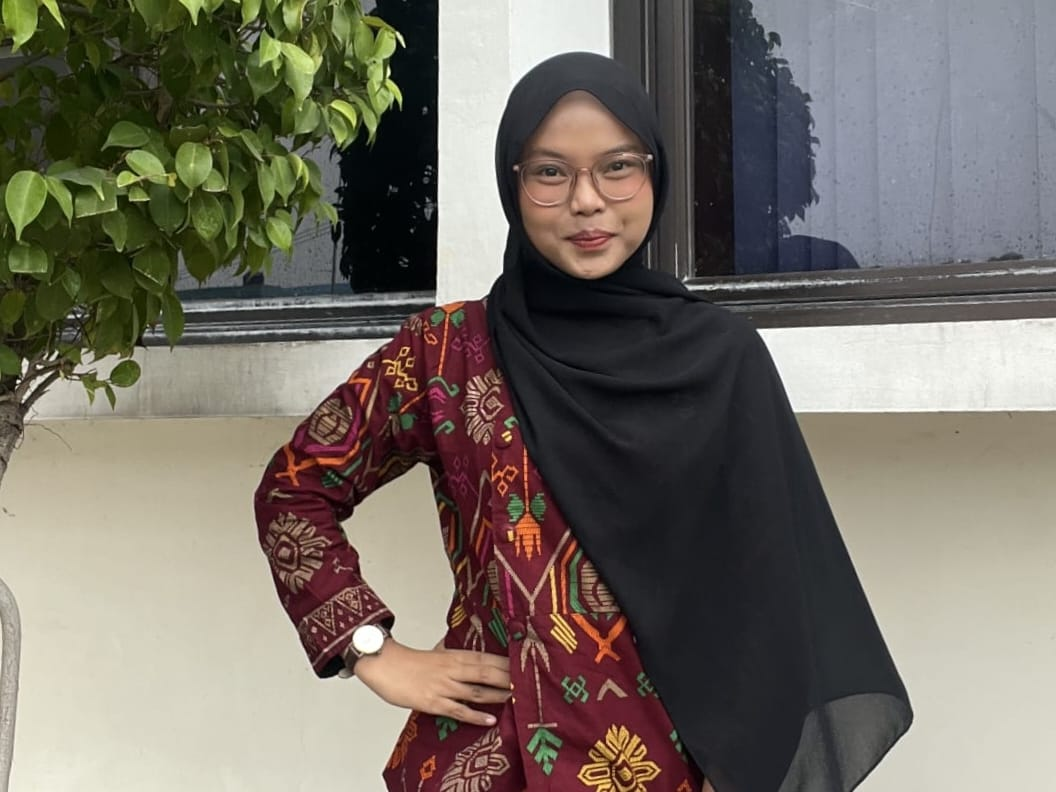
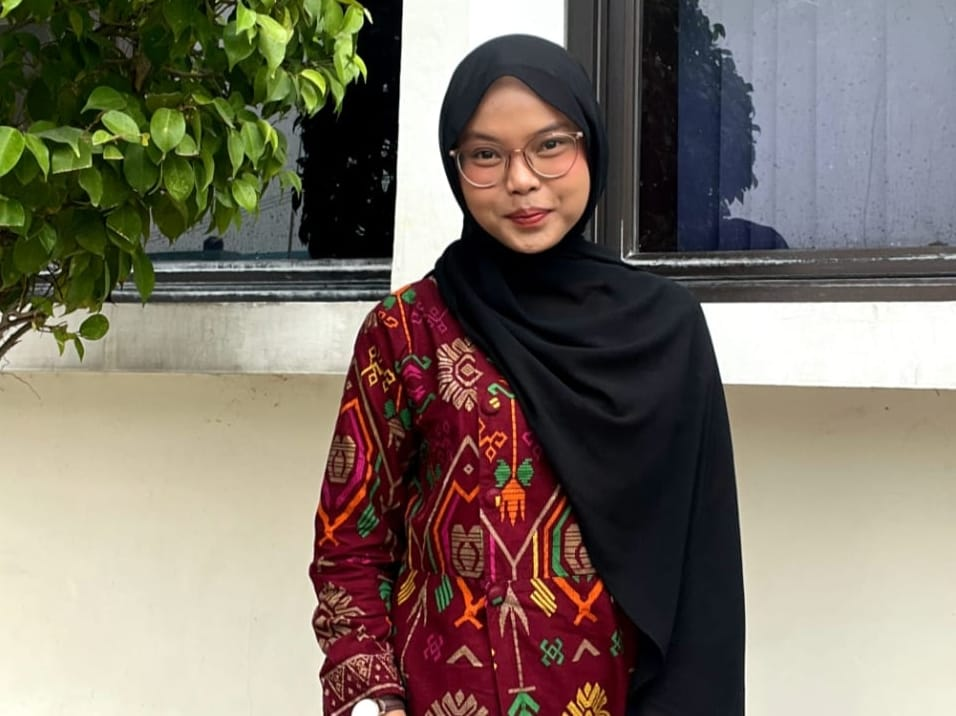
Add files via upload

diff --git a/index.html b/index.html
@@ -70,10 +70,6 @@
                         <a href="pages/divisi.html" class="btn btn-primary">
                             <i class="ri-layout-grid-line"></i> Lihat Divisi
                         </a>
-                        <a href="pages/aspirasi.html" class="btn btn-outline">
-                            <i class="ri-chat-voice-line"></i> Kirim Aspirasi
-                        </a>
-                    </div>
                 </div>
 
                 <div class="hero-image desktop-hero-image">
@@ -117,7 +113,7 @@
                 <div class="section-title">
                     <span class="section-subtitle">Tentang Kami</span>
                     <h2>Mengenal BEM Fakultas Ilmu Komputer</h2>
-                    <p>Wadah aspirasi, inovasi, dan pergerakan kemahasiswaan Fakultas Ilmu Komputer Universitas Buana Perjuangan Karawang.</p>
+                    <p>Ruang kolaborasi, inovasi, dan pergerakan mahasiswa Fakultas Ilmu Komputer Universitas Buana Perjuangan Karawang.</p>
                 </div>
 
                 <div class="about-grid">
@@ -132,7 +128,7 @@
                     <div class="about-content">
                         <h3 id="aboutTitle">Badan Eksekutif Mahasiswa Fakultas Ilmu Komputer</h3>
                         <p id="aboutDescription">
-                            Badan Eksekutif Mahasiswa Fakultas Ilmu Komputer merupakan organisasi kemahasiswaan yang menjadi wadah aspirasi, kolaborasi, pengembangan potensi, serta penggerak berbagai kegiatan akademik maupun non-akademik bagi seluruh mahasiswa Fakultas Ilmu Komputer.
+                            Badan Eksekutif Mahasiswa Fakultas Ilmu Komputer merupakan organisasi kemahasiswaan yang berperan dalam membangun kolaborasi, mengembangkan potensi mahasiswa, serta menggerakkan berbagai kegiatan akademik dan non-akademik di lingkungan Fakultas Ilmu Komputer.
                         </p>
                         <div class="about-action">
                             <a href="pages/tentang.html" class="btn btn-primary">
@@ -263,28 +259,6 @@
                 </div>
             </div>
         </section>
-
-        <!-- ================= CTA ================= -->
-        <section class="cta section" id="cta">
-            <div class="container">
-                <div class="cta-box">
-                    <span class="section-subtitle">Aspirasi Mahasiswa</span>
-                    <h2>Suara Mahasiswa, Langkah Perubahan.</h2>
-                    <p>
-                        Kritik, saran, maupun ide yang membangun sangat berarti bagi kemajuan Fakultas Ilmu Komputer. Mari bersama menciptakan lingkungan akademik yang lebih aktif, inklusif, dan berprestasi.
-                    </p>
-                    <div class="cta-buttons">
-                        <a href="pages/aspirasi.html" class="btn btn-primary">
-                            <i class="ri-chat-3-line"></i> Kirim Aspirasi
-                        </a>
-                        <a href="pages/kontak.html" class="btn btn-outline">
-                            <i class="ri-customer-service-2-line"></i> Hubungi Kami
-                        </a>
-                    </div>
-                </div>
-            </div>
-        </section>
-    </main>
 
     <!-- Footer -->
     <footer id="footer"></footer>

diff --git a/css/style.css b/css/style.css
@@ -2415,108 +2415,7 @@ main {
 }
 
 /* =====================================================
-   15. ASPIRASI PAGE
-===================================================== */
-
-.aspiration-grid {
-    display: flex;
-    justify-content: center;
-}
-
-.aspiration-card {
-    background: var(--surface);
-    border: 1px solid var(--border);
-    border-radius: var(--radius-xl);
-    padding: 50px 40px;
-    max-width: 720px;
-    width: 100%;
-    text-align: center;
-    box-shadow: var(--shadow-md);
-    position: relative;
-    overflow: hidden;
-}
-
-.aspiration-card::before {
-    content: "";
-    position: absolute;
-    top: 0;
-    left: 0;
-    width: 100%;
-    height: 5px;
-    background: linear-gradient(90deg, var(--primary), var(--secondary));
-}
-
-.aspiration-icon {
-    width: 72px;
-    height: 72px;
-    border-radius: var(--radius-full);
-    background: var(--primary-subtle);
-    color: var(--primary);
-    display: inline-flex;
-    align-items: center;
-    justify-content: center;
-    font-size: 2rem;
-    margin-bottom: 22px;
-}
-
-.aspiration-card h2 {
-    font-size: 1.8rem;
-    margin-bottom: 14px;
-}
-
-.aspiration-card p {
-    font-size: 1rem;
-    color: var(--text-light);
-    line-height: 1.8;
-    margin-bottom: 30px;
-}
-
-.aspiration-button-group {
-    display: flex;
-    justify-content: center;
-    margin-bottom: 30px;
-}
-
-.contact-note {
-    background: var(--background);
-    border-radius: var(--radius-md);
-    padding: 16px 20px;
-    display: flex;
-    align-items: center;
-    justify-content: center;
-    gap: 12px;
-    text-align: left;
-}
-
-.contact-note i {
-    font-size: 1.4rem;
-    color: var(--primary);
-}
-
-.contact-note span {
-    font-size: 0.85rem;
-    color: var(--text-light);
-    display: block;
-}
-
-.contact-note strong {
-    font-size: 0.9rem;
-    color: var(--dark);
-}
-
-.step-badge {
-    display: inline-block;
-    padding: 4px 12px;
-    border-radius: var(--radius-full);
-    background: var(--primary-subtle);
-    color: var(--primary);
-    font-weight: 700;
-    font-size: 0.78rem;
-    margin-bottom: 12px;
-}
-
-/* =====================================================
-   16. KONTAK & FAQ & MAPS
+   15. KONTAK & FAQ & MAPS
 ===================================================== */
 
 .contact-grid {
@@ -2618,7 +2517,7 @@ main {
 }
 
 /* =====================================================
-   17. CTA & FOOTER & BACK TO TOP & 404
+   16. CTA & FOOTER & BACK TO TOP & 404
 ===================================================== */
 
 .cta {

diff --git a/pages/kontak.html b/pages/kontak.html
@@ -57,9 +57,6 @@
                             <a href="#contactSection" class="btn btn-primary">
                                 <i class="ri-contacts-line"></i> Informasi Kontak
                             </a>
-                            <a href="aspirasi.html" class="btn btn-outline">
-                                <i class="ri-chat-voice-line"></i> Kirim Aspirasi
-                            </a>
                         </div>
                     </div>
 
@@ -111,16 +108,6 @@
                             <h3>Instagram Resmi</h3>
                             <p id="contactInstagram">
                                 <a href="https://www.instagram.com/bemfikubpk" target="_blank" rel="noopener noreferrer">@bemfikubpk</a>
-                            </p>
-                        </div>
-                    </div>
-
-                    <div class="contact-card">
-                        <i class="ri-chat-3-line"></i>
-                        <div class="contact-card-body">
-                            <h3>Form Aspirasi Mahasiswa</h3>
-                            <p>
-                                <a href="aspirasi.html">Klik untuk Mengisi Formulir Aspirasi Online →</a>
                             </p>
                         </div>
                     </div>

diff --git a/pages/divisi.html b/pages/divisi.html
@@ -112,27 +112,6 @@
             </div>
         </section>
 
-        <!-- ================= CTA ================= -->
-        <section class="division-cta section">
-            <div class="container">
-                <div class="cta-box">
-                    <span class="section-subtitle">Aspirasi & Sinergi</span>
-                    <h2>Ingin Berkolaborasi dengan Departemen BEM?</h2>
-                    <p>
-                        Kami menyambut baik inisiatif kolaborasi kegiatan, usulan program kemahasiswaan, maupun pertanyaan seputar departemen terkait.
-                    </p>
-                    <div class="cta-buttons">
-                        <a href="kontak.html" class="btn btn-primary">
-                            <i class="ri-mail-line"></i> Hubungi Kami
-                        </a>
-                        <a href="proker.html" class="btn btn-outline">
-                            <i class="ri-flag-2-line"></i> Program Kerja
-                        </a>
-                    </div>
-                </div>
-            </div>
-        </section>
-    </main>
 
     <!-- Footer -->
     <footer id="footer"></footer>

diff --git a/pages/pengurus.html b/pages/pengurus.html
@@ -148,28 +148,6 @@
             </div>
         </section>
 
-        <!-- ================= CTA ================= -->
-        <section class="cta section">
-            <div class="container">
-                <div class="cta-box">
-                    <span class="section-subtitle">Aspirasi & Kolaborasi</span>
-                    <h2>Ingin Berkomunikasi Langsung dengan Pengurus?</h2>
-                    <p>
-                        Sampaikan pertanyaan, masukan, atau audiensi kepada pimpinan dan divisi BEM FIK melalui kanal resmi kami.
-                    </p>
-                    <div class="cta-buttons">
-                        <a href="kontak.html" class="btn btn-primary">
-                            <i class="ri-contacts-line"></i> Kontak Pengurus
-                        </a>
-                        <a href="aspirasi.html" class="btn btn-outline">
-                            <i class="ri-chat-voice-line"></i> Form Aspirasi
-                        </a>
-                    </div>
-                </div>
-            </div>
-        </section>
-    </main>
-
     <!-- Footer -->
     <footer id="footer"></footer>
 

diff --git a/pages/tentang.html b/pages/tentang.html
@@ -95,7 +95,7 @@
 
                     <div class="about-content">
                         <p id="profilDeskripsi">
-                            Badan Eksekutif Mahasiswa Fakultas Ilmu Komputer merupakan organisasi kemahasiswaan yang menjadi wadah aspirasi, kolaborasi, pengembangan potensi, serta penggerak berbagai kegiatan akademik maupun non-akademik bagi seluruh mahasiswa Fakultas Ilmu Komputer.
+                            Badan Eksekutif Mahasiswa Fakultas Ilmu Komputer merupakan organisasi kemahasiswaan yang berperan dalam membangun kolaborasi, mengembangkan potensi mahasiswa, serta menggerakkan berbagai kegiatan akademik dan non-akademik di lingkungan Fakultas Ilmu Komputer.
                         </p>
 
                         <div class="about-feature">

diff --git a/js/app.js b/js/app.js
@@ -95,7 +95,6 @@ const BEMApp = {
                     <li><a class="nav-link" href="${BASE_PATH}pages/pengurus.html">Pengurus</a></li>
                     <li><a class="nav-link" href="${BASE_PATH}pages/informasi.html">Informasi</a></li>
                     <li><a class="nav-link" href="${BASE_PATH}pages/galeri.html">Galeri</a></li>
-                    <li><a class="nav-link" href="${BASE_PATH}pages/aspirasi.html">Aspirasi</a></li>
                     <li><a class="nav-link" href="${BASE_PATH}pages/kontak.html">Kontak</a></li>
                 </ul>
             </div>

diff --git a/js/data-loader.js b/js/data-loader.js
@@ -150,7 +150,7 @@ const FALLBACK_DIVISI = [
   {
     "id": 2,
     "nama": "Minat dan Bakat",
-    "singkatan": "MINBA",
+    "singkatan": "",
     "logo": "assets/images/divisi/minba.png",
     "icon": "fas fa-medal",
     "warna": "#EC4899",
@@ -443,7 +443,7 @@ const FALLBACK_PROKER = [
     "slug": "pom",
     "icon": "ri-trophy-line",
     "kategori": "Program Utama",
-    "divisi": "MINBA",
+    "divisi": "BEM FIK",
     "status": "direncanakan",
     "statusLabel": "Direncanakan",
     "periode": "2026",

diff --git a/pages/proker.html b/pages/proker.html
@@ -161,9 +161,6 @@
                         <a href="kontak.html" class="btn btn-primary">
                             <i class="ri-mail-line"></i> Ajukan Kolaborasi
                         </a>
-                        <a href="aspirasi.html" class="btn btn-outline">
-                            <i class="ri-chat-3-line"></i> Kirim Masukan
-                        </a>
                     </div>
                 </div>
             </div>
